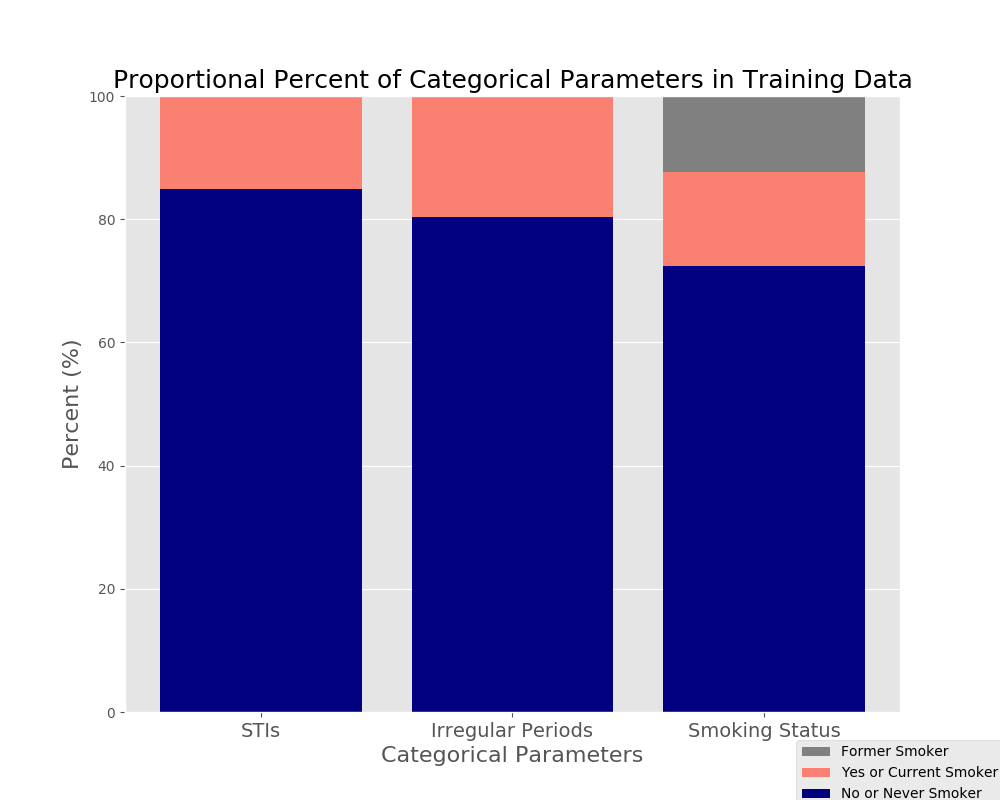
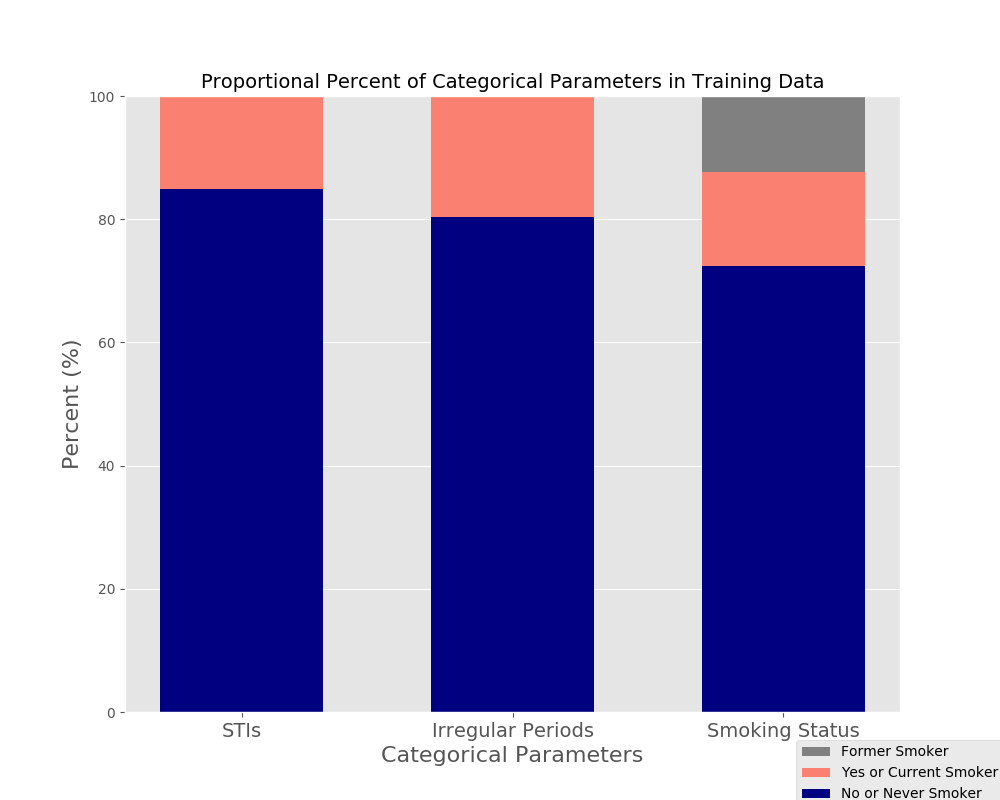
fixing proportional

Changed region(s): [[0.124, 0.0938, 0.93, 0.9375], [0.434, 0.9062, 0.589, 0.9375], [0.217, 0.9062, 0.279, 0.9375]]

diff --git a/src/final_mod.py b/src/final_mod.py
@@ -177,14 +177,14 @@ proportion_yes = np.true_divide(yes_, total) * 100
 proportion_former = np.true_divide(former_, total) * 100
 
 plt.figure(figsize=(10,8))
-plt.bar(ind, proportion_former, width=0.8, label='Former Smoker', color='gray', bottom=proportion_no + proportion_yes)
-plt.bar(ind, proportion_yes, width=0.8, label='Yes or Current Smoker', color='salmon', bottom=proportion_no)
-plt.bar(ind, proportion_no, width=0.8, label='No or Never Smoker', color='navy')
+plt.bar(ind, proportion_former, width=0.6, label='Former Smoker', color='gray', bottom=proportion_no + proportion_yes)
+plt.bar(ind, proportion_yes, width=0.6, label='Yes or Current Smoker', color='salmon', bottom=proportion_no)
+plt.bar(ind, proportion_no, width=0.6, label='No or Never Smoker', color='navy')
 
 plt.xticks(ind, x_var, fontsize = 14)
 plt.ylabel("Percent (%)", fontsize = 16)
 plt.xlabel("Categorical Parameters", fontsize = 16)
-plt.title("Proportional Percent of Categorical Parameters in Training Data", fontsize = 18)
+plt.title("Proportional Percent of Categorical Parameters in Training Data", fontsize = 14)
 plt.ylim=1.0
 plt.legend(loc='upper center', bbox_to_anchor=(1, -0.034))
 
